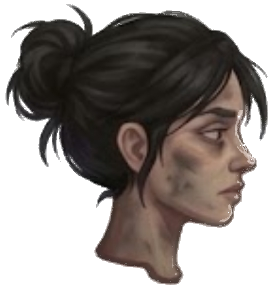
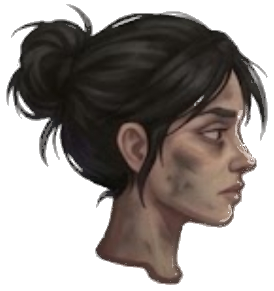
Heroine doll: shoulder, legs, helmet and gauntlet as on the reference; grey out of the hair gaps (Д5)
Claude-Session: https://claude.ai/code/session_01GYYRw7NikeJ6mh5mvsMn5o

diff --git a/tools/cut_heroine_parts.py b/tools/cut_heroine_parts.py
@@ -49,6 +49,15 @@ SHARPEN = 50
 SHARPEN_RADIUS = 0.8
 # The colour of the drawing's dark lines and hair.
 INK = (24, 21, 20)
+# Hair gaps (the head only): a neutral grey (max - min of RGB below CHROMA)
+# lighter than LUMA, within EDGE_PX of the sheet or of a gap (a grey lighter
+# than SEED) and farther than SKIN_PX from the skin, is mixed with the sheet.
+HAIR = (38, 35, 33)
+HAIR_GAP_CHROMA = 14
+HAIR_GAP_LUMA = 48
+HAIR_GAP_SEED = 90
+HAIR_EDGE_PX = 4
+HAIR_SKIN_PX = 8
 # A pixel this far from grey is a pure colour even at the very edge.
 PURE = 260.0
 # Edge alpha below this goes clear, above 1 - this goes solid.
@@ -182,6 +191,39 @@ def _unmix(sheet: np.ndarray, dist: np.ndarray, clear: np.ndarray) -> tuple[np.n
     return alpha, colour
 
 
+def _clear_hair_gaps(rgba: np.ndarray, src: np.ndarray) -> None:
+    """Takes the grey out of the gaps between hair strands (the head only).
+
+    Those gaps are shut in by strands, so the flood never reaches them, and the
+    JPG has blurred them to a neutral grey between the hair and the sheet. A
+    neutral pixel of that grey, away from the skin, is unmixed towards the
+    hair's ink: mostly clear, dark where a strand passes.
+    """
+    r, g, b = (src[..., i] for i in range(3))
+    luma = src.mean(axis=2)
+    neutral = (src.max(axis=2) - src.min(axis=2)) < HAIR_GAP_CHROMA
+    skin = (r - b > 25) & (luma > 90)
+    near_skin = np.zeros_like(skin)
+    for dy in range(-HAIR_SKIN_PX, HAIR_SKIN_PX + 1):
+        for dx in range(-HAIR_SKIN_PX, HAIR_SKIN_PX + 1):
+            near_skin |= np.roll(np.roll(skin, dy, axis=0), dx, axis=1)
+    # Strand edges, blurred lighter than the hair, count only near the sheet:
+    # next to clear pixels or to the lighter grey of a gap.
+    seed = (rgba[..., 3] == 0) | (neutral & (luma > HAIR_GAP_SEED) & ~near_skin)
+    zone = np.zeros_like(seed)
+    for dy in range(-HAIR_EDGE_PX, HAIR_EDGE_PX + 1):
+        for dx in range(-HAIR_EDGE_PX, HAIR_EDGE_PX + 1):
+            zone |= np.roll(np.roll(seed, dy, axis=0), dx, axis=1)
+    gap = neutral & (luma > HAIR_GAP_LUMA) & (luma < BG + 4) & zone & ~near_skin & (rgba[..., 3] > 0)
+    ink = np.array(INK, dtype=np.float64)
+    grey = np.full(3, BG)
+    towards = ink - grey
+    alpha = np.clip(((src - grey) * towards).sum(axis=2) / (towards**2).sum(), 0.0, 1.0)
+    alpha = np.where(alpha < SPECK, 0.0, alpha)
+    rgba[gap, 3] = np.minimum(rgba[gap, 3], (alpha[gap] * 255).round()).astype(np.uint8)
+    rgba[gap, :3] = HAIR
+
+
 def _cut_strip(rgba: np.ndarray) -> tuple[np.ndarray, list[int]]:
     """Takes the magenta strip and its glow off the gauntlet.
 
@@ -260,6 +302,8 @@ def main() -> None:
         crop = rgba[y0 : y1 + 1, x0 : x1 + 1].copy()
         factor = factors[name]
         entry = {"sheet_rect": [x0, y0, x1 - x0 + 1, y1 - y0 + 1], "bake": factor}
+        if name == "head":
+            _clear_hair_gaps(crop, sheet[y0 : y1 + 1, x0 : x1 + 1])
         if name == "gauntlet":
             mask, entry["strip_rect"] = _cut_strip(crop)
             _bake(mask, factor).save(OUT / "gauntlet_strip.png", optimize=True)

diff --git a/docs/history.md b/docs/history.md
@@ -157,7 +157,7 @@
 | 19.11.2026 | Цвет робы — тёмно-бирюзовый (D72); рост героини 92–96 px по хитбоксу 44×92 (D73); пропорции как нарисовал Gemini, голова около 1/6 роста (D74, отменяет «крупная голова, короткие ноги» из D63); каска пока охряная, респиратор остаётся (D75) | Ответы Бориса на оценку картинок Gemini 19.11. Проба размера: героиня с эталона на тёмном кирпиче в 92, 120 и 180 px рядом с хитбоксом — в 92 px силуэт читается (пучок, каска, наруч, полоска индикатора), лицо — пятно в любых пропорциях, так что перегенерация ради крупной головы не окупается и может уйти по стилю; в 120 px голова торчит на 28 px над хитбоксом и проходила бы сквозь низкие потолки. Оранжевой робы на листе нет, бирюзовую и рекомендовали |
 | 19.11.2026 | Свет наруча только на самой героине: слабый в обычном времени, ярче под Shift; полоска индикатора — код, цвет из данных, D70 выбираем в игре (D76) | `PointLight2D` цвета времени на кирпиче нарушает D60 (цвет времени только у героини), а постоянный свет вокруг неё подсказывал бы путь в тёмных уровнях (09); на листе только маджента, так что цвет надо уметь менять без новой картинки |
 | 19.11.2026 | Кукла из 12 частей присланного JPG, без перегенерации; бег по позам 3–4, фаза от пройденного пути; резать вход в дверь, потом приземление (D77) | Оригинала PNG нет; для 92 px пикселей хватает с запасом ×4, края хуже. 360 px/s — четыре роста в секунду, это бег; фаза от пути не даёт ногам скользить |
-| 19.11.2026 | Части героини запекаются в игровой размер (Lanczos, `tools/cut_heroine_parts.py` берёт `scale` и `size` из `data/heroine.json`) и рисуются 1:1; копии в размере листа лежат в `parts/full/` только для витрины и в веб-сборку не идут; полоска индикатора — белая маска точной формы с картинки, код красит её цветом времени; наруч крупнее листа в 1,25 раза; край части отделяется от серого фона по цвету соседа (пряди без серого между ними); в игре части рисуются ближайшим пикселем и чуть подточены при запекании (D78) | Первая сборка была размыта: части в размере листа ужимались видеокартой в 3,8 раза через мипмапы; полоска прямоугольником не совпадала со скошенным экраном наруча. Наруч на эталоне крупнее, чем на листе частей, а в 92 px он главный признак героини. Второй лист Борис тоже не принял (серое в волосах, мыло, плечо и каска не на месте): линейный фильтр при сдвиге на долю пикселя размывает картинку вдвое, а пороговая обрезка фона оставляла серое между прядями. Проверка — рядом эталон, ужатый до 94 px. Третий лист Борис тоже не принял за мыло; он прислал тот же лист частей крупнее (`character_parts_hq.jpg`, 3,8×), суставы пересчитаны под него, `scale` 0,0716 |
+| 19.11.2026 | Части героини запекаются в игровой размер (Lanczos, `tools/cut_heroine_parts.py` берёт `scale` и `size` из `data/heroine.json`) и рисуются 1:1; копии в размере листа лежат в `parts/full/` только для витрины и в веб-сборку не идут; полоска индикатора — белая маска точной формы с картинки, код красит её цветом времени; наруч крупнее листа в 1,25 раза; край части отделяется от серого фона по цвету соседа (пряди без серого между ними); в игре части рисуются ближайшим пикселем и чуть подточены при запекании (D78) | Первая сборка была размыта: части в размере листа ужимались видеокартой в 3,8 раза через мипмапы; полоска прямоугольником не совпадала со скошенным экраном наруча. Наруч на эталоне крупнее, чем на листе частей, а в 92 px он главный признак героини. Второй лист Борис тоже не принял (серое в волосах, мыло, плечо и каска не на месте): линейный фильтр при сдвиге на долю пикселя размывает картинку вдвое, а пороговая обрезка фона оставляла серое между прядями. Проверка — рядом эталон, ужатый до 94 px. Третий лист Борис тоже не принял за мыло; он прислал тот же лист частей крупнее (`character_parts_hq.jpg`, 3,8×), суставы пересчитаны под него. Четвёртое замечание Бориса (плечи вперёд, ноги назад, каска отстаёт от спины, серое в волосах): плечо перенесено к спине, бёдра вперёд, каска прижата и крупнее в 1,15 раза, торс выше за счёт нахлёста у колена, наруч наклонён кистью вперёд, как на эталоне; серое между прядями убирается отдельным шагом для головы (нейтральный серый рядом с фоном, вдали от кожи, уходит в тёмную прядь); `scale` 0,0727 |
 | 19.11.2026 | Полоска и индикатор времени — маджента `#F24CE9` с эталона (D70, пробно) | Замечание Бориса к первому листу: на эталоне устройство маджента. Циан стоит рядом на витрине `heroine_test`; переключение — одно поле `accent` в `data/time_hud.json`. Блокаутные объекты (дверь, платформа) пока циан — их цвет меняет Д4 |
 | 19.11.2026 | Картинки-эталоны героини лежат в `docs/art/heroine/`, не в `game/` | Всё в `game/` идёт в веб-сборку; эталон в 2752×1536 весит 325 КБ и в игре не нужен. Вырезанные части лягут в `game/assets/art/heroine/parts/` в Д5 |
 | 19.11.2026 | В запросах набора для Gemini (Н-2…Н-8) вместо «transparent background» — сплошной чистый зелёный `#00FF00`; детали куклы — отдельной картинкой без целой фигуры, с круглыми суставами, свечение не рисовать | Gemini прозрачности не даёт ([ai-tools.md](ai-tools.md)) и часто рисует фальшивую шахматку; серый фон совпадает с серыми рукавами героини. Приёмы взяты из запросов, которые Gemini выдал Борису 19.11 |
